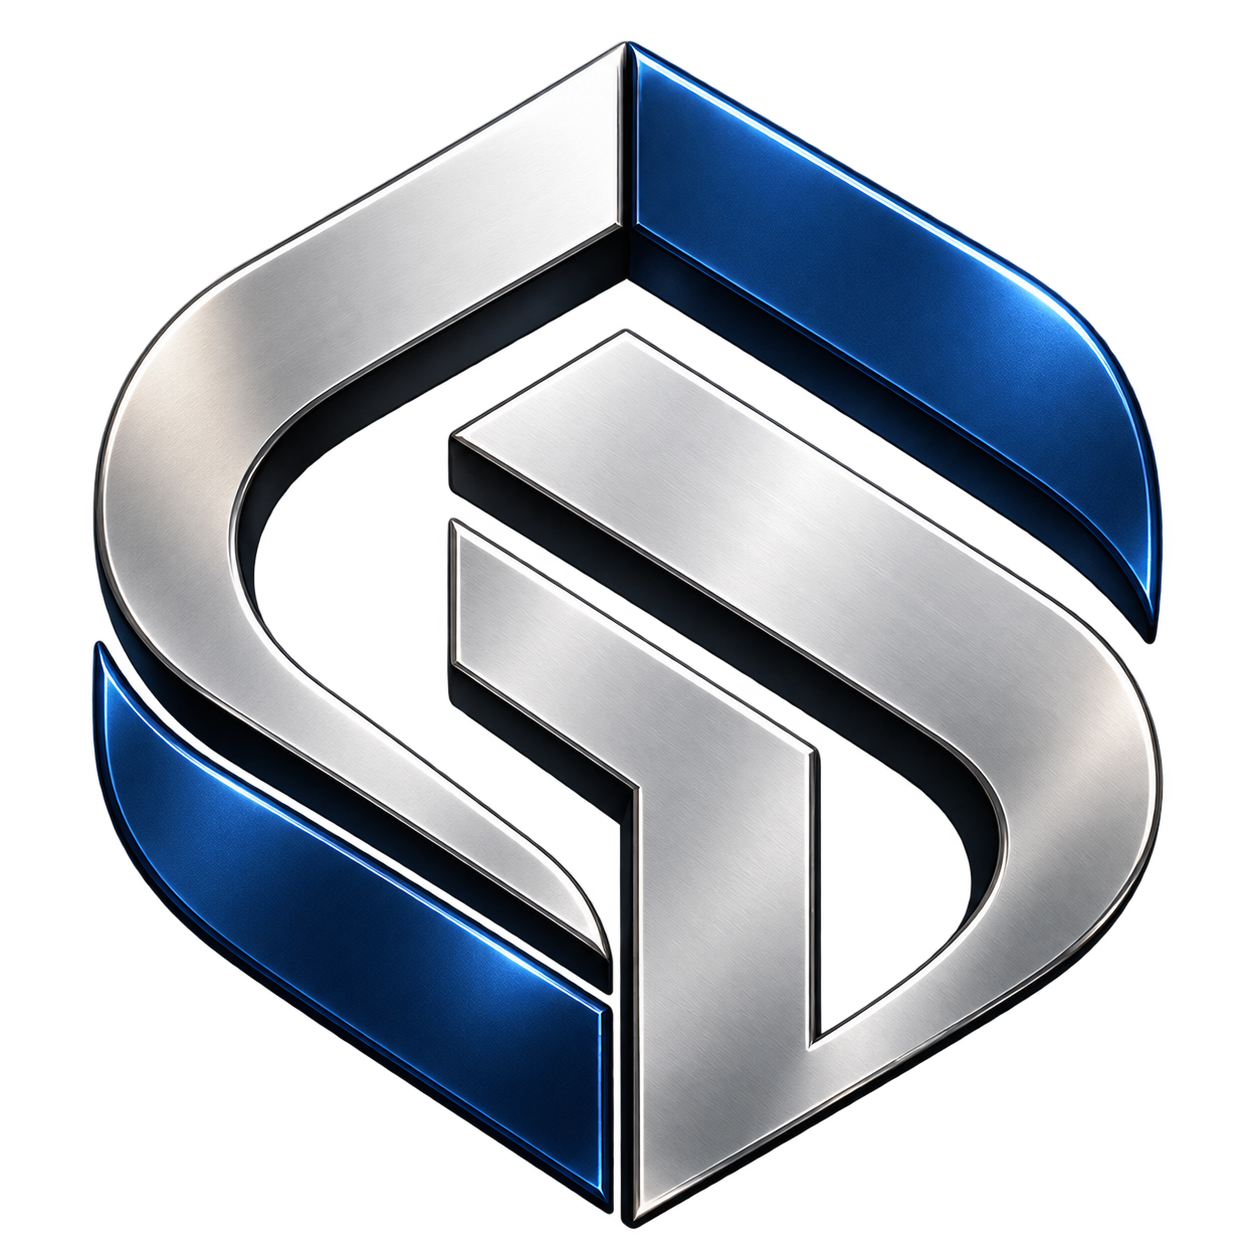
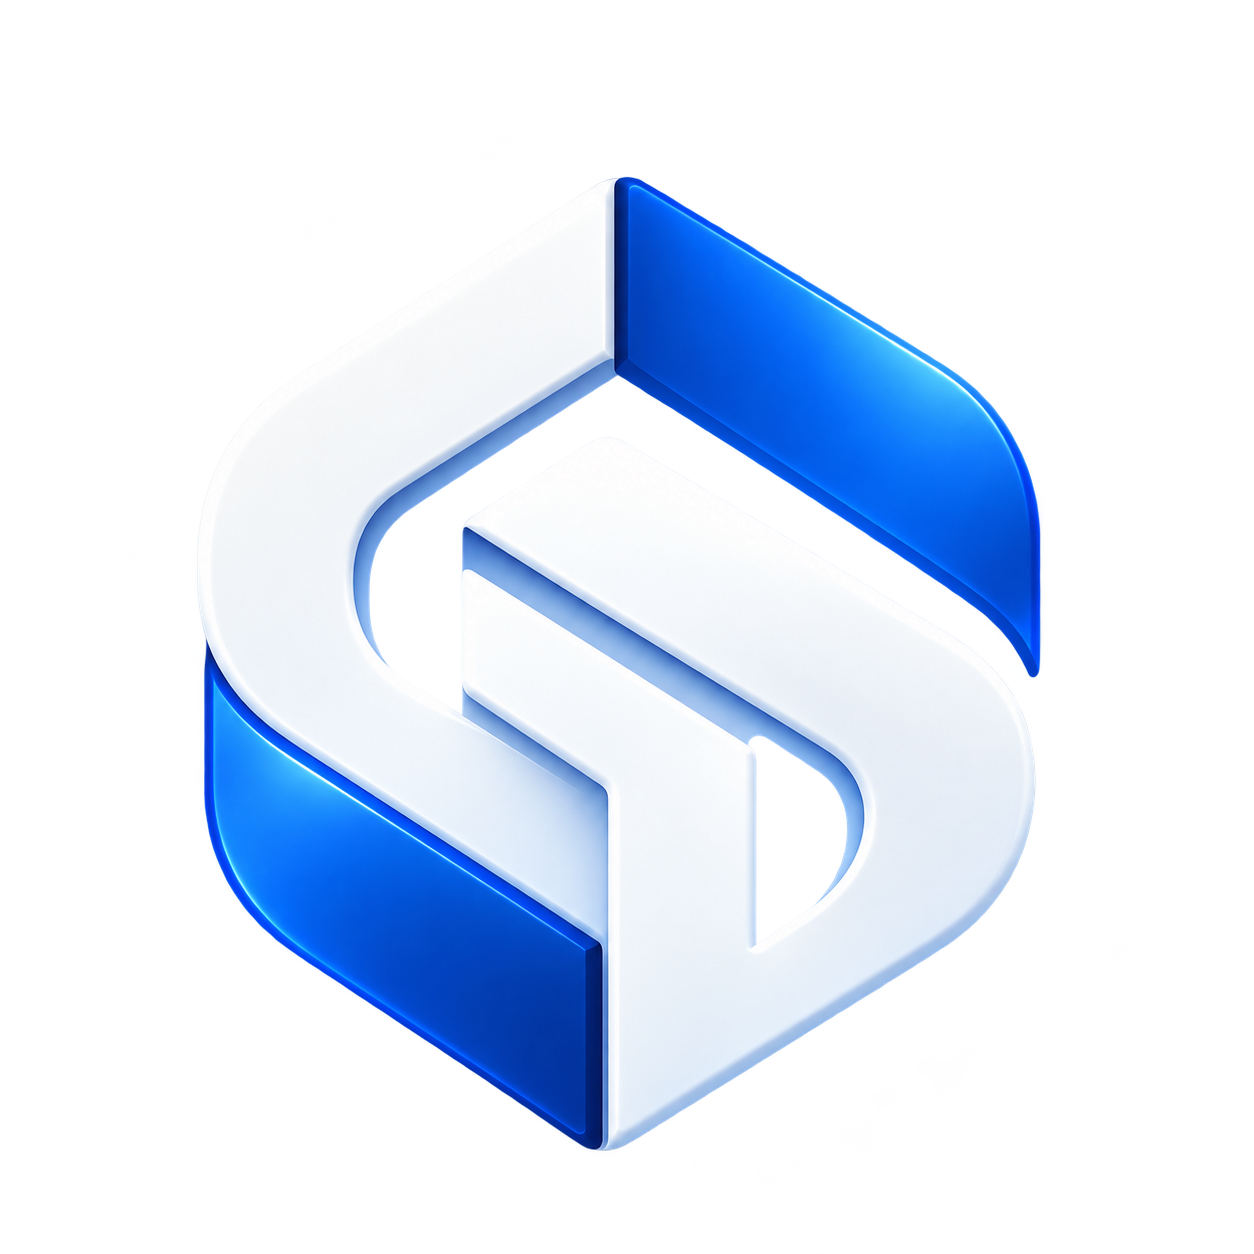
fix(brand): use owner-selected S-Shield PNG

diff --git a/assets/brand/README.md b/assets/brand/README.md
@@ -1,5 +1,19 @@
 # GisSino S-Shield
 
+## Current owner-supplied artwork — 2026-10-17
+
+The owner explicitly selected the replacement PNG already present at the primary checkout's canonical `assets/brand/gissino-s-shield.png` path. Welcome follow-up S2 adopts that exact file, byte-for-byte, at this same shared path.
+
+- Canvas: 1254×1254 RGBA PNG; 812015 bytes.
[1 lines of base64/hex data omitted]
+- White/blue S-Shield supplied by the owner; no generation, crop, resampling, recoloring, filtering or metadata removal.
+- Existing shared brand helper and favicon continue to reference this path. Welcome retains its 144px image box at normal mobile height; compact-height rules are unchanged.
+- The primary-checkout source is untouched. Future owner replacements can use this same canonical path.
+
+## Historical metallic navy artwork — superseded 2026-10-17
+
+The following provenance records the prior PR #2/S1 asset only. It does not describe the replacement above.
+
 Owner-supplied Metallic Navy S-Shield Emblem.png is the approved prototype brand artwork.
 
 - Canvas: 1254×1254 RGBA PNG.
